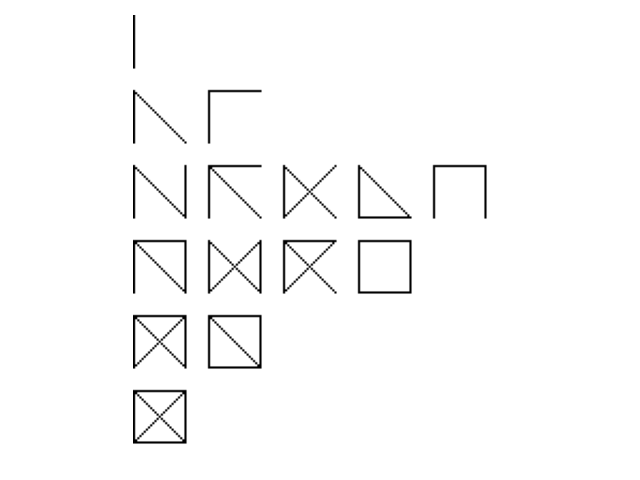
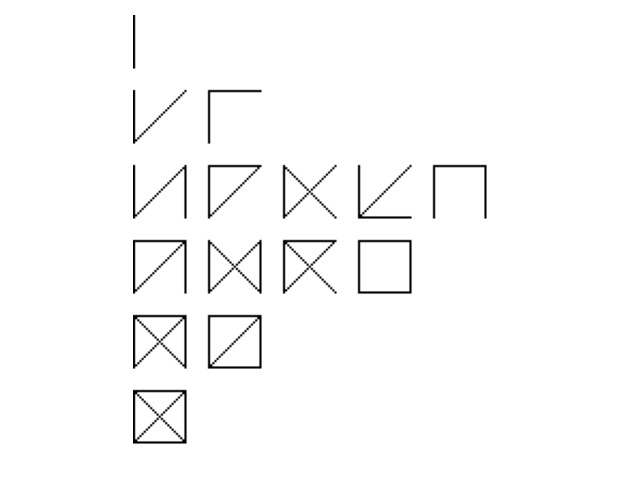
Fix coordinates order

diff --git a/glyphs_generator/glyph.py b/glyphs_generator/glyph.py
@@ -73,19 +73,19 @@ class Glyph:
         for stroke in self.strokes:
             x0, y0 = world_to_view(stroke.start)
             x1, y1 = world_to_view(stroke.end)
-            array[x0, y0] = 1
-            array[x1, y1] = 1
+            array[y0, x0] = 1
+            array[y1, x1] = 1
             if x0 == x1:
                 for y in range(min(y0, y1), min(max(y0, y1) + 1, glyph_size)):
-                    array[x0, y] = 1
+                    array[y, x0] = 1
             elif y0 == y1:
                 for x in range(min(x0, x1), min(max(x0, x1) + 1, glyph_size)):
-                    array[x, y0] = 1
+                    array[y0, x] = 1
             else:
-                slope = (y1 - y0) / (x1 - x0)
-                for x in range(min(x0, x1), min(max(x0, x1) + 1, glyph_size)):
-                    y = int(np.floor(slope * (x - x0) + y0))
-                    array[x, y] = 1
+                slope = (x1 - x0) / (y1 - y0)
+                for y in range(min(y0, y1), min(max(y0, y1) + 1, glyph_size)):
+                    x = int(np.floor(slope * (y - y0) + x0))
+                    array[y, x] = 1
         return array
 
     def intersect(self, stroke: Stroke) -> bool:
